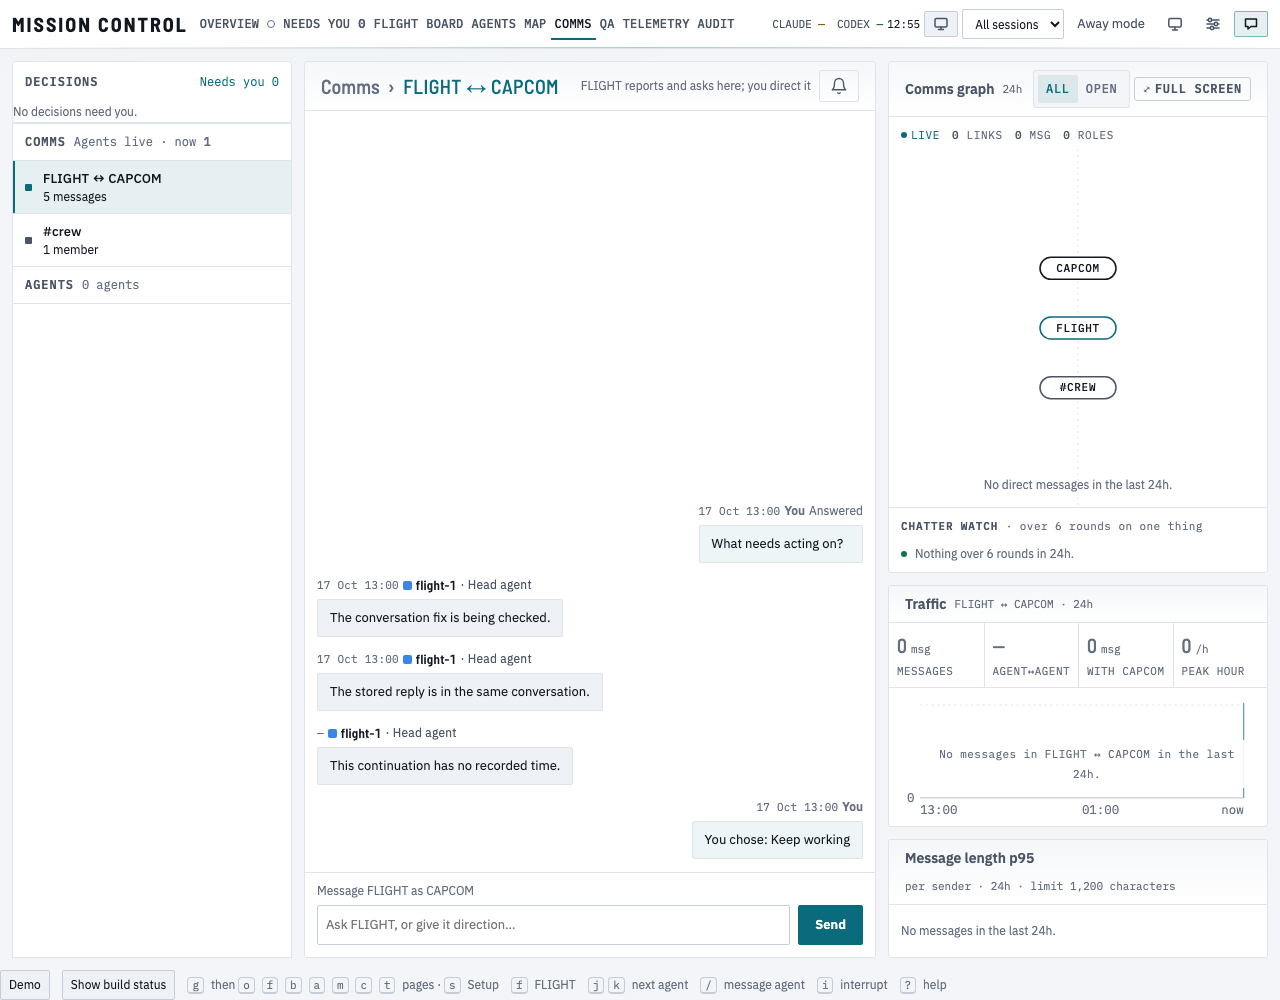
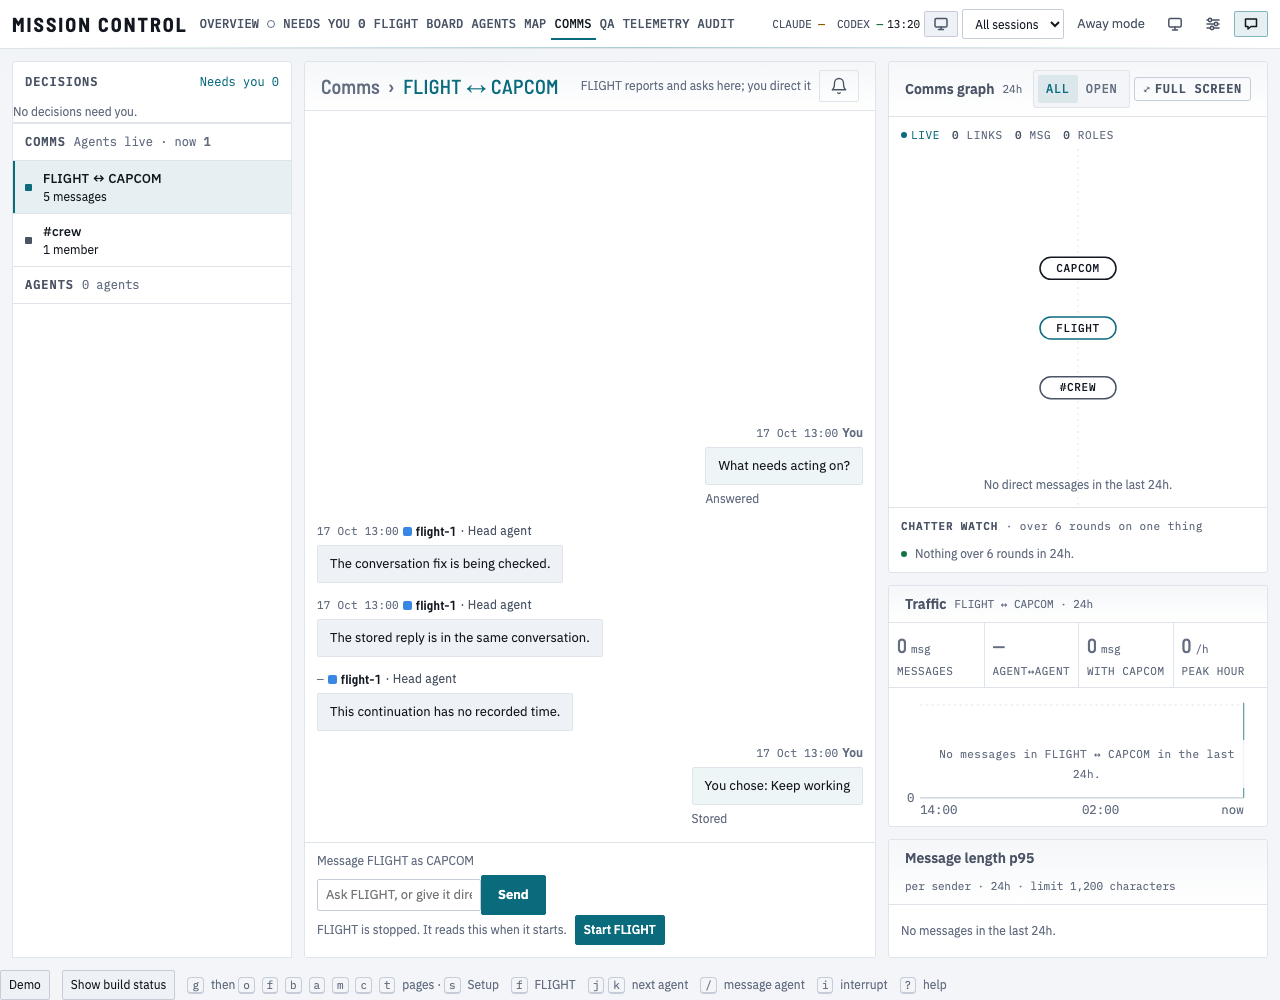
test: keep one delivery state through the landed operator composer

diff --git a/apps/web/test/FlightConversationSource.browser.test.ts b/apps/web/test/FlightConversationSource.browser.test.ts
@@ -101,6 +101,15 @@ describeRendered("the joined FLIGHT source in Comms", () => {
               undefined,
             );
           await expect.poll(labels).toEqual(["Stored"]);
+          expect(
+            await page.evaluate(
+              () =>
+                document
+                  .getElementById("comms-message-comms:1")
+                  ?.querySelectorAll('[data-testid="message-state"]').length,
+              undefined,
+            ),
+          ).toBe(1);
           await page.screenshot(join(SHOTS, `flight-state-stored-${width}x${height}-${theme}.png`));
           for (const state of ["delivered", "answered"] as const) {
             Object.assign(messages[0] ?? {}, { state, deliveredAt: NOW });

diff --git a/docs/reviews/2026-11-09/flight-conversation-1620/review-1337/README.md b/docs/reviews/2026-11-09/flight-conversation-1620/review-1337/README.md
@@ -11,3 +11,9 @@ The parent plan's S1 acceptance also requires one internal key-and-title context
 The complete conversation, Comms, Store and API suites pass 673 cases. Lint, workspace typecheck and build pass. No additional full local-suite pass is claimed for this existing-PR update; fresh pushed-head full CI and independent whole-branch QA remain required. The two Minor renderer findings remain logged in review 1337: shared safe Markdown and long-body presentation belong to the unstarted shared-thread work in #1621. This correction does not claim the shared-thread pages or W2 click-flow delivery.
 
 No provider, budget, hold, approval or observed-loop setting changes. Internal context is descriptive and grants no action or decision authority.
+
+## Merge the landed always-available composer
+
+The main merge preserves the reply-route readiness check and stopped notice. The new source still joins turn replies with null timestamps and source-bound controls. Delivery state is rendered once under each operator message in the existing state-line position; its server-provided Answered state takes precedence over the older stored/delivered fallback. The browser explicitly checks one state line for the message while transitioning all three states.
+
+After images are recaptured from the merged source. Before remains the exact round-one reviewed source a63e0412; after also includes the now-landed composer and receipt presentation. Metadata records this parent difference rather than presenting it as an isolated label-only comparison. The real App arrives through Overview and Comms navigation. All22 browser/conversation presentation cases and60 server conversation/Comms component cases pass. Lint, workspace types and build pass. Fresh pushed-head CI and QA remain required.
